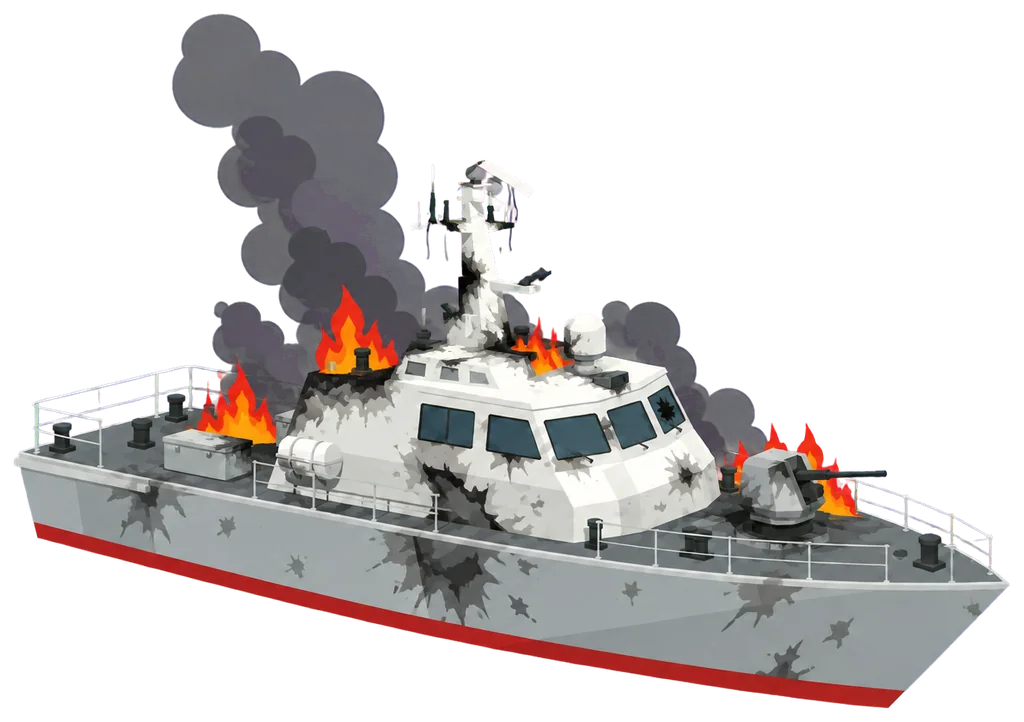
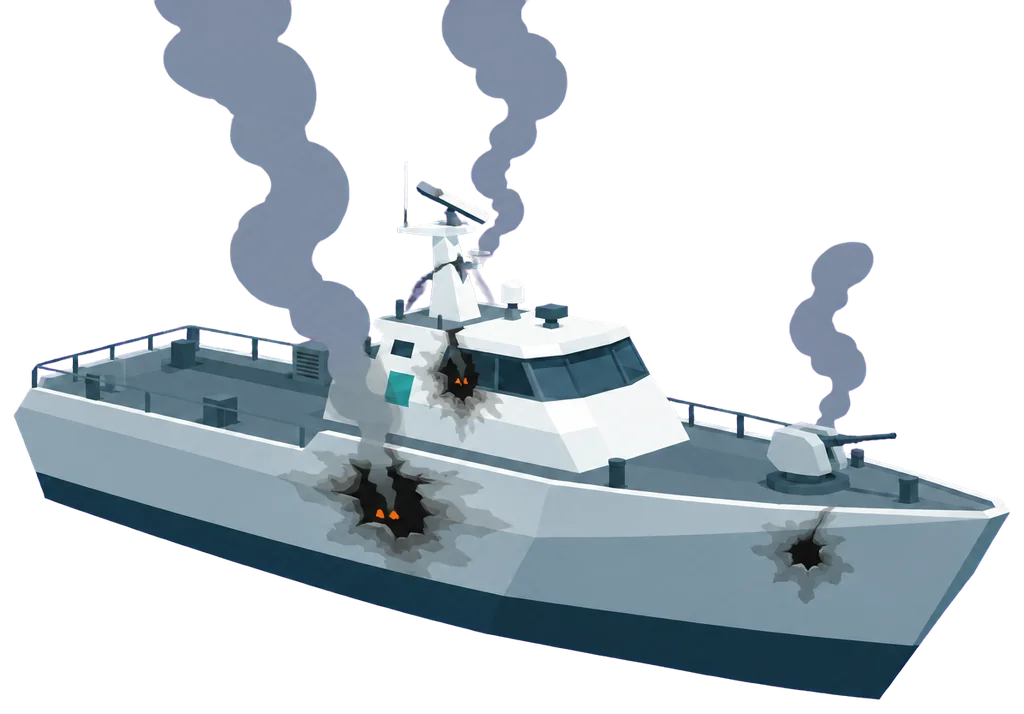
T18(2단계): 고른 그림체 A로 그림 에셋 전체를 새 색에 맞춰 다시 만듦 + 휴대폰 세로 시작 그림
- 배 3척(길이·모양을 크게 달리해 작게 줄여도 구별)과 불탄 배 3척(구멍·회색 연기, 큰 불꽃 없음), 바다 질감, 시작 화면, 결과 배경, 물보라를 v2 색(바다 #1B5F82, 흰 물결 #D8F2F5, 흘수선 남색 띠)으로 교체. 파일 이름은 그대로
- 새 그림 assets/img/title_phone.webp(1080×1920): 주 함정이 폭의 약 75%, 위는 제목 자리 하늘, 아래는 메뉴 자리 바다
- process_assets.py: 원본을 assets/raw/v2에서 읽음, title_phone 처리(빈 하늘만 세로로 늘려 9:16), 불탄 배 연기의 보랏빛 제거, 자홍 남음 점검 추가
- 프롬프트와 다시 만든 기록: assets/prompts.md v2 2단계(선택: A)

diff --git a/tools/process_assets.py b/tools/process_assets.py
@@ -1,14 +1,15 @@
 # -*- coding: utf-8 -*-
-"""assets/raw/*.png(Codex 생성 원본)를 게임용 webp로 만든다.
+"""assets/raw/v2/*.png(Codex 생성 원본, v2 디자인 개편)를 게임용 webp로 만든다.
 
     python tools/process_assets.py            # 모두 만들기
     python tools/process_assets.py --check    # 만든 파일의 크기·투명도·이음매 점검만
 
-- ship3 / ship2 / ship1 (+ _burnt) → 자홍(#FF00FF) 단색 배경을 지워 투명하게, 여백을 잘라 가로 1024 이하
+- ship3 / ship2 / ship1 (+ _burnt) → 자홍(#FF00FF) 단색 배경을 지워 투명하게(불탄 배는 연기의 보랏빛도 지움), 여백을 잘라 가로 1024 이하
 - splash → 4열×2행 견본을 칸별로 잘라 배경을 지우고, 256×256 칸 8개를 가로 한 줄(2048×256)로 잇는다
 - sea_tile → 이음매 없이 반복되도록 가장자리를 섞은 뒤 1024×1024
 - title / result_bg → 16:9로 자른 뒤 1920×1080
-원본은 assets/raw(저장소에 올리지 않음), 결과는 assets/img/<이름>.webp.
+- title_phone → 양옆을 조금만 자르고 빈 하늘을 세로로 늘려 9:16(1080×1920)으로(배가 잘리지 않게)
+원본은 assets/raw/v2(저장소에 올리지 않음), 결과는 assets/img/<이름>.webp.
 """
 import os
 import sys
@@ -17,7 +18,7 @@ from PIL import Image
 from scipy import ndimage
 
 ROOT = os.path.dirname(os.path.dirname(os.path.abspath(__file__)))
-RAW = os.path.join(ROOT, 'assets', 'raw')
+RAW = os.path.join(ROOT, 'assets', 'raw', 'v2')  # v1 원본은 assets/raw 바로 아래(프롬프트 기록: assets/prompts.md)
 OUT = os.path.join(ROOT, 'assets', 'img')
 
 SHIPS = ['ship3', 'ship2', 'ship1', 'ship3_burnt', 'ship2_burnt', 'ship1_burnt']
@@ -80,12 +81,26 @@ def fit_width(im, w):
     return im.resize((w, round(im.height * w / im.width)), Image.LANCZOS)
 
 
+def smoke_tint(im):
+    """불탄 배의 연기에 남은 보랏빛(자홍 번짐, R·B가 모두 G보다 큼)을 푸른 회색으로 되돌린다.
+    배의 색(회색·흰색·쪽빛·청록·주황 불씨)은 R·B가 함께 G를 넘지 않아 건드리지 않는다."""
+    a = np.array(im).astype(np.float32)
+    r, g, b = a[..., 0], a[..., 1], a[..., 2]
+    purple = (r > g) & (b > g)
+    a[..., 0] = np.where(purple, g, r)
+    a[..., 2] = np.where(purple, g + 0.35 * (b - g), b)
+    return Image.fromarray(np.clip(a, 0, 255).astype(np.uint8), 'RGBA')
+
+
 def ships():
     for n in SHIPS:
         if not os.path.exists(os.path.join(RAW, n + '.png')):
             print('  (없음)', n)
             continue
-        save_webp(fit_width(trim(key_out(raw(n))), 1024), n, 84)
+        im = key_out(raw(n))
+        if n.endswith('_burnt'):
+            im = smoke_tint(im)
+        save_webp(fit_width(trim(im), 1024), n, 84)
 
 
 def water_tint(im):
@@ -196,25 +211,51 @@ def sea_tile():
     print(f'  sea_tile.webp {fixed.size[0]}x{fixed.size[1]} RGB {os.path.getsize(path) // 1024}KB (무손실)')
 
 
-# ---------- 16:9 배경 ----------
+# ---------- 16:9 배경 / 9:16 세로 시작 그림 ----------
 
-def wide(name):
+def wide(name, aw=16, ah=9, size=(1920, 1080)):
+    """가운데를 aw:ah 비율로 잘라 size로 맞춘다(기본 16:9 → 1920×1080)."""
     im = raw(name)
     tw = im.width
-    th = round(tw * 9 / 16)
+    th = round(tw * ah / aw)
     if th > im.height:
         th = im.height
-        tw = round(th * 16 / 9)
+        tw = round(th * aw / ah)
     l = (im.width - tw) // 2
     t = (im.height - th) // 2
-    im = im.crop((l, t, l + tw, t + th)).resize((1920, 1080), Image.LANCZOS)
+    im = im.crop((l, t, l + tw, t + th)).resize(size, Image.LANCZOS)
     save_webp(im, name, 82)
+
+
+def tall(name, size=(1080, 1920), side=24):
+    """세로 시작 그림: 원본(2:3)을 9:16으로 만들 때 양옆을 크게 자르면 배가 잘리므로,
+    양옆은 side 픽셀만 자르고 모자란 높이는 위쪽 빈 하늘(무늬 없는 단색 번짐)만 세로로 늘려 채운다."""
+    im = raw(name)
+    a = np.asarray(im, dtype=np.float32)
+    lum = a.mean(axis=2)
+    horizon = int(np.argmax(lum.mean(axis=1) < 170))           # 밝은 하늘 → 어두운 바다로 바뀌는 줄
+    dev = np.abs(lum[:horizon] - np.median(lum[:horizon], axis=1, keepdims=True))
+    busy = np.nonzero((dev > 25).sum(axis=1) > 2)[0]           # 하늘에 무엇(돛대 등)이 처음 나오는 줄
+    sky_end = max(8, (int(busy[0]) if len(busy) else horizon) - 20)
+    cw = im.width - 2 * side
+    ch = round(cw * size[1] / size[0])
+    extra = ch - im.height
+    if extra > 0:
+        sky = im.crop((0, 0, im.width, sky_end)).resize((im.width, sky_end + extra), Image.LANCZOS)
+        grown = Image.new('RGB', (im.width, ch))
+        grown.paste(sky, (0, 0))
+        grown.paste(im.crop((0, sky_end, im.width, im.height)), (0, sky_end + extra))
+        im = grown
+    t = (im.height - ch) // 2
+    print(f'  {name}: 수평선 {horizon}, 하늘 {sky_end}줄 → {sky_end + max(0, extra)}줄로 늘림, 양옆 {side}px 자름')
+    save_webp(im.crop((side, t, side + cw, t + ch)).resize(size, Image.LANCZOS), name, 82)
 
 
 # ---------- 점검 ----------
 
 EXPECT = {n: 'RGBA' for n in SHIPS + ['splash']}
-EXPECT.update({'sea_tile': 'RGB', 'title': 'RGB', 'result_bg': 'RGB'})
+EXPECT.update({'sea_tile': 'RGB', 'title': 'RGB', 'title_phone': 'RGB', 'result_bg': 'RGB'})
+SIZE = {'title': (1920, 1080), 'result_bg': (1920, 1080), 'title_phone': (1080, 1920)}
 
 
 def check():
@@ -235,6 +276,14 @@ def check():
             good = has_alpha and corners_clear and 0.03 < opaque < 0.95
             if n.startswith('ship'):
                 good = good and im.width <= 1024
+            # 자홍이 남은 곳(보이는 픽셀 중 R·B가 G보다 크게 높은 곳)이 거의 없어야 한다
+            if has_alpha:
+                a = np.asarray(im.convert('RGBA')).astype(np.int16)
+                vis = a[..., 3] > 128
+                mag = vis & (a[..., 0] - a[..., 1] > 60) & (a[..., 2] - a[..., 1] > 60)
+                left = mag.sum() / max(1, vis.sum())
+                msg += f' 자홍 남음 {left:.2%}'
+                good = good and left < 0.005
             if n == 'splash':
                 good = good and im.size == (SPLASH_FRAME * SPLASH_FRAMES, SPLASH_FRAME)
         elif n == 'sea_tile':
@@ -242,7 +291,7 @@ def check():
             msg += f' 이음매 순위 {sc:.2f}'
             good = im.size == (1024, 1024) and sc < 0.99
         else:
-            good = im.size == (1920, 1080)
+            good = im.size == SIZE[n]
         print(('PASS ' if good else 'FAIL ') + msg)
         ok = ok and good
     return ok
@@ -254,6 +303,6 @@ if __name__ == '__main__':
         print('배'); ships()
         print('물보라'); splash()
         print('바다 질감'); sea_tile()
-        print('배경'); wide('title'); wide('result_bg')
+        print('배경'); wide('title'); wide('result_bg'); tall('title_phone')
     print('점검')
     sys.exit(0 if check() else 1)

diff --git a/assets/prompts.md b/assets/prompts.md
@@ -200,5 +200,101 @@ A medium-size modern naval frigate: medium length hull, one deck gun on the bow,
 
 ### 선택
 
-- 선택: (선생님 선택 대기)
-- 고른 뒤(2단계) 할 일: 고른 화풍 문구로 배 3척 + 불탄 배 3척(불꽃 없이 그을림·부러진 돛대 정도, 끔찍하지 않게), 바다 질감, 시작 화면(가로) + 휴대폰 세로 시작 화면(주 함정이 폭의 70~85%, 제목·메뉴와 겹치지 않게), 결과 배경, 물보라를 다시 만든다.
+- 선택: A — 단정한 평면(선생님 선택)
+
+## v2 2단계: 에셋(견본 A 화풍)
+
+- 공통 화풍 문구: 견본 A의 3회차 문구에 `no glints`를 더했다. 공통으로 금지한 것: 글자·숫자·깃발·표장, 십자·더하기표·헬기 갑판 원·H 표시·헬기·사람 같은 기호, 빨강·주황·노랑·황금(황금은 화면의 명중 표시에만 씀; 불탄 배의 작은 불씨만 예외).
+- 함대 도색: 밝은 회색 선체, 흰 상부 구조물, 흘수선 짙은 남색 `#183540` 띠, 조금 더 어두운 갑판 `#5B6B73`, 청록 점 하나.
+- 배 세 척은 72px로 줄여도 구별되게 길이·모양을 크게 다르게 했다: ship3 선체 길이 폭의 8배(포 2문·계단형 상부·높은 돛대), ship2 5배(포 1문·가운데 네모 상부), ship1 3배(짧고 뭉툭, 선실이 뒤쪽).
+- 불탄 배는 같은 배 원본을 참조 그림(`-Image ... -RefMode same`)으로 붙여 같은 배·같은 각도로: 구멍, 그을음, 부러진 돛대, 회색 연기, 작은 주황 불씨 몇 개까지(큰 불꽃·폭발·사람 없음).
+- 원본은 `assets/raw/v2/<이름>.png`, 결과는 `assets/img/<이름>.webp`(이름은 v1과 같음, `title_phone`만 새로 생김). 처리·점검: `python tools/process_assets.py`(v2부터 원본을 `assets/raw/v2`에서 읽음).
+
+```powershell
+powershell -NoProfile -ExecutionPolicy Bypass -File tools\gen.ps1 -Name v2-ship3 -PromptFile tools\prompts\v2\ship3.txt -Out assets\raw\v2\ship3.png
+powershell -NoProfile -ExecutionPolicy Bypass -File tools\gen.ps1 -Name v2-ship3_burnt -PromptFile tools\prompts\v2\ship3_burnt.txt -Out assets\raw\v2\ship3_burnt.png -Image assets\raw\v2\ship3.png -RefMode same
+powershell -NoProfile -ExecutionPolicy Bypass -File tools\gen.ps1 -Name v2-title_phone -PromptFile tools\prompts\v2\title_phone.txt -Out assets\raw\v2\title_phone.png -Size 1024x1536
+powershell -NoProfile -ExecutionPolicy Bypass -File tools\gen.ps1 -Name v2-sea_tile -PromptFile tools\prompts\v2\sea_tile.txt -Out assets\raw\v2\sea_tile.png -Size 1024x1024
+python tools\process_assets.py        # webp 만들기 + 점검(PASS/FAIL)
+```
+
+| 이름 | 생성 크기 | 참조 그림 | 결과 |
+|---|---|---|---|
+| sea_tile | 1024x1024 | 없음 | 1024×1024, 이음매 제거, 무손실 |
+| ship3 / ship2 / ship1 | 1536x1024 | 없음 | 투명, 가로 1024 |
+| ship3_burnt / ship2_burnt / ship1_burnt | 1536x1024 | 같은 배 원본(same) | 투명, 가로 1024, 연기의 보랏빛(자홍 번짐)을 처리 단계에서 회색으로 |
+| title | 1536x1024 | 없음 | 16:9로 잘라 1920×1080 |
+| title_phone | 1024x1536 | 없음 | 1080×1920. 양옆 24px만 자르고 빈 하늘을 세로로 늘려 9:16(주 함정이 폭의 약 75%) |
+| result_bg | 1536x1024 | 없음 | 16:9로 잘라 1920×1080 |
+| splash | 1536x1024 | 없음 | 256×256 칸 8개 가로 한 줄(2048×256), 투명 |
+
+### 다시 만든 기록(2단계)
+
+- title_phone: 1회차는 배가 원본 폭의 약 90%라 9:16으로 자르면 뱃머리·고물이 잘렸다(`assets/raw/v2/try1/title_phone.png`). 2회차에 "앞쪽 3/4 각도, 폭의 55%만"으로 바꿔 배가 원본 폭의 약 73%가 됐고, 처리 단계에서 양옆을 크게 자르지 않고 빈 하늘만 세로로 늘려 9:16을 맞췄다.
+- 나머지는 1회차에 통과. 불탄 배 2척(ship2·ship1)의 연기에 남은 보랏빛은 다시 만들지 않고 `process_assets.py`의 `smoke_tint`로 지웠다.
+
+### v2 sea_tile — 바다 질감 (`tools/prompts/v2/sea_tile.txt`)
+
+```text
+A seamless tileable texture of open sea seen straight from directly above (top-down, orthographic): a flat deep blue #1B5F82 water surface with small stylized pale #D8F2F5 and slightly lighter blue wave crest marks, each a simple short curved stroke, scattered sparsely and evenly across the whole square with the same size everywhere, subtle and calm, no larger shapes, no focal point, no ship, no island, no horizon, no sky, no vignette, no lighting change from one side to the other. Designed to repeat edge to edge as a background pattern. Style: flat vector illustration made of simple clean geometric shapes, solid color fills, crisp edges, minimal detail, modern editorial infographic look, refined with exactly one flat darker shade tone on the side of each surface facing away from a sun at the upper left and one thin flat highlight line along top edges, careful even spacing and tidy consistent detail, like a high-end airline or government infographic poster. Completely flat and drawn by hand in vector: no 3D rendering, no realistic lighting, no photographic water, no sparkles, no glints. No red, no orange, no yellow, no gold. Absolutely no text, no letters, no numbers, no hull numbers, no flags, no emblems, no insignia, no logos, no signatures, no watermarks, no frame or border. No symbols or deck markings of any kind: no crosses, no plus signs, no helipad circles or H marks, no helicopters, no aircraft, no people. Modern ships only: not historical, no traditional Korean or Joseon ships, no sails, no oars. Square 1024x1024.
+```
+
+### v2 ship3 — 큰 배 (`tools/prompts/v2/ship3.txt`)
+
+```text
+A large modern naval destroyer, the biggest ship of the fleet: a very long, sleek hull about eight times as long as it is wide, two deck guns (one on the bow, one behind the bridge), rows of flat vertical missile launcher hatches, a tall stepped superstructure with a tall pyramid radar mast, and a long flat empty stern deck. Fleet livery shared by every ship: light cool grey steel hull, white angular superstructure, a dark ink-navy #183540 boot stripe along the waterline, a slightly darker slate grey #5B6B73 deck, dark grey deck fittings, white radar mast, one tiny teal #096C6A accent. Shown in three-quarter view from slightly above, bow pointing to the right, the whole ship fully visible and centered with a wide empty margin on every side. The ship must read as a strong, clean, instantly recognizable silhouette even when shrunk to 72 pixels wide: high contrast between the dark deck, the white superstructure and the grey hull, no fussy tiny details. Style: flat vector illustration made of simple clean geometric shapes, solid color fills, crisp edges, minimal detail, modern editorial infographic look, refined with exactly one flat darker shade tone on the side of each surface facing away from a sun at the upper left and one thin flat highlight line along top edges, careful even spacing and tidy consistent detail, like a high-end airline or government infographic poster. Completely flat and drawn by hand in vector: no 3D rendering, no realistic lighting, no photographic water, no sparkles, no glints. Palette: sea #1B5F82 with deeper #183540 in shadows, white wave foam #D8F2F5, pale sky #F2F6F6 and white #FFFFFF, ink #183540, a tiny teal #096C6A accent. No red, no orange, no yellow, no gold anywhere. The ship is isolated on a perfectly flat, uniform, solid pure magenta #FF00FF background: no water, no sea, no waves, no wake, no shadow on the ground, no gradient, nothing else in the picture. Do not use magenta or pink anywhere on the ship. Absolutely no text, no letters, no numbers, no hull numbers, no flags, no emblems, no insignia, no logos, no signatures, no watermarks, no frame or border. No symbols or deck markings of any kind: no crosses, no plus signs, no helipad circles or H marks, no helicopters, no aircraft, no people. Modern ships only: not historical, no traditional Korean or Joseon ships, no sails, no oars. Landscape 1536x1024.
+```
+
+### v2 ship2 — 중간 배 (`tools/prompts/v2/ship2.txt`)
+
+```text
+A medium-size modern naval frigate: a medium length hull about five times as long as it is wide, one deck gun on the bow, one compact angular superstructure block in the middle with a single radar mast, a short flat stern deck. Clearly smaller and simpler than a destroyer: no missile launchers, only one gun. Fleet livery shared by every ship: light cool grey steel hull, white angular superstructure, a dark ink-navy #183540 boot stripe along the waterline, a slightly darker slate grey #5B6B73 deck, dark grey deck fittings, white radar mast, one tiny teal #096C6A accent. Shown in three-quarter view from slightly above, bow pointing to the right, the whole ship fully visible and centered with a wide empty margin on every side. The ship must read as a strong, clean, instantly recognizable silhouette even when shrunk to 72 pixels wide: high contrast between the dark deck, the white superstructure and the grey hull, no fussy tiny details. Style: flat vector illustration made of simple clean geometric shapes, solid color fills, crisp edges, minimal detail, modern editorial infographic look, refined with exactly one flat darker shade tone on the side of each surface facing away from a sun at the upper left and one thin flat highlight line along top edges, careful even spacing and tidy consistent detail, like a high-end airline or government infographic poster. Completely flat and drawn by hand in vector: no 3D rendering, no realistic lighting, no photographic water, no sparkles, no glints. Palette: sea #1B5F82 with deeper #183540 in shadows, white wave foam #D8F2F5, pale sky #F2F6F6 and white #FFFFFF, ink #183540, a tiny teal #096C6A accent. No red, no orange, no yellow, no gold anywhere. The ship is isolated on a perfectly flat, uniform, solid pure magenta #FF00FF background: no water, no sea, no waves, no wake, no shadow on the ground, no gradient, nothing else in the picture. Do not use magenta or pink anywhere on the ship. Absolutely no text, no letters, no numbers, no hull numbers, no flags, no emblems, no insignia, no logos, no signatures, no watermarks, no frame or border. No symbols or deck markings of any kind: no crosses, no plus signs, no helipad circles or H marks, no helicopters, no aircraft, no people. Modern ships only: not historical, no traditional Korean or Joseon ships, no sails, no oars. Landscape 1536x1024.
+```
+
+### v2 ship1 — 작은 배 (`tools/prompts/v2/ship1.txt`)
+
+```text
+A small modern fast patrol boat, the smallest ship of the fleet: a short, stubby, wide hull only about three times as long as it is wide, with a high pointed bow, one small low wheelhouse cabin set toward the back, one short radar mast, and one tiny gun on the bow. It must look like a small fast boat, not a frigate: no large superstructure, no missile launchers. Fleet livery shared by every ship: light cool grey steel hull, white angular superstructure, a dark ink-navy #183540 boot stripe along the waterline, a slightly darker slate grey #5B6B73 deck, dark grey deck fittings, white radar mast, one tiny teal #096C6A accent. Shown in three-quarter view from slightly above, bow pointing to the right, the whole ship fully visible and centered with a wide empty margin on every side. The ship must read as a strong, clean, instantly recognizable silhouette even when shrunk to 72 pixels wide: high contrast between the dark deck, the white superstructure and the grey hull, no fussy tiny details. Style: flat vector illustration made of simple clean geometric shapes, solid color fills, crisp edges, minimal detail, modern editorial infographic look, refined with exactly one flat darker shade tone on the side of each surface facing away from a sun at the upper left and one thin flat highlight line along top edges, careful even spacing and tidy consistent detail, like a high-end airline or government infographic poster. Completely flat and drawn by hand in vector: no 3D rendering, no realistic lighting, no photographic water, no sparkles, no glints. Palette: sea #1B5F82 with deeper #183540 in shadows, white wave foam #D8F2F5, pale sky #F2F6F6 and white #FFFFFF, ink #183540, a tiny teal #096C6A accent. No red, no orange, no yellow, no gold anywhere. The ship is isolated on a perfectly flat, uniform, solid pure magenta #FF00FF background: no water, no sea, no waves, no wake, no shadow on the ground, no gradient, nothing else in the picture. Do not use magenta or pink anywhere on the ship. Absolutely no text, no letters, no numbers, no hull numbers, no flags, no emblems, no insignia, no logos, no signatures, no watermarks, no frame or border. No symbols or deck markings of any kind: no crosses, no plus signs, no helipad circles or H marks, no helicopters, no aircraft, no people. Modern ships only: not historical, no traditional Korean or Joseon ships, no sails, no oars. Landscape 1536x1024.
+```
+
+### v2 ship3_burnt — 큰 배(불탄) (`tools/prompts/v2/ship3_burnt.txt`)
+
+```text
+Draw exactly the same ship as in the reference image, same hull shape, same proportions, same colors, same angle, same size and same position in the frame, but damaged after being hit: a few dark jagged holes in the hull side and superstructure, blackened scorch patches around them, the radar mast bent and broken, and two or three soft columns of flat grey smoke shapes rising from the holes that stay inside the picture. At most two or three tiny restrained orange embers inside the holes; no big flames, no fire, no explosions, no people, nothing gory. The ship is still afloat, level and recognizable. Fleet livery shared by every ship: light cool grey steel hull, white angular superstructure, a dark ink-navy #183540 boot stripe along the waterline, a slightly darker slate grey #5B6B73 deck, dark grey deck fittings, white radar mast, one tiny teal #096C6A accent. Shown in three-quarter view from slightly above, bow pointing to the right, the whole ship fully visible and centered with a wide empty margin on every side. Style: flat vector illustration made of simple clean geometric shapes, solid color fills, crisp edges, minimal detail, modern editorial infographic look, refined with exactly one flat darker shade tone on the side of each surface facing away from a sun at the upper left and one thin flat highlight line along top edges, careful even spacing and tidy consistent detail, like a high-end airline or government infographic poster. Completely flat and drawn by hand in vector: no 3D rendering, no realistic lighting, no photographic water, no sparkles, no glints. The ship is isolated on a perfectly flat, uniform, solid pure magenta #FF00FF background: no water, no sea, no waves, no wake, no shadow on the ground, no gradient, nothing else in the picture. Do not use magenta or pink anywhere on the ship. Absolutely no text, no letters, no numbers, no hull numbers, no flags, no emblems, no insignia, no logos, no signatures, no watermarks, no frame or border. No symbols or deck markings of any kind: no crosses, no plus signs, no helipad circles or H marks, no helicopters, no aircraft, no people. Modern ships only: not historical, no traditional Korean or Joseon ships, no sails, no oars. Landscape 1536x1024.
+```
+
+### v2 ship2_burnt — 중간 배(불탄) (`tools/prompts/v2/ship2_burnt.txt`)
+
+```text
+Draw exactly the same ship as in the reference image, same hull shape, same proportions, same colors, same angle, same size and same position in the frame, but damaged after being hit: a few dark jagged holes in the hull side and superstructure, blackened scorch patches around them, the radar mast bent and broken, and two or three soft columns of flat grey smoke shapes rising from the holes that stay inside the picture. At most two or three tiny restrained orange embers inside the holes; no big flames, no fire, no explosions, no people, nothing gory. The ship is still afloat, level and recognizable. Fleet livery shared by every ship: light cool grey steel hull, white angular superstructure, a dark ink-navy #183540 boot stripe along the waterline, a slightly darker slate grey #5B6B73 deck, dark grey deck fittings, white radar mast, one tiny teal #096C6A accent. Shown in three-quarter view from slightly above, bow pointing to the right, the whole ship fully visible and centered with a wide empty margin on every side. Style: flat vector illustration made of simple clean geometric shapes, solid color fills, crisp edges, minimal detail, modern editorial infographic look, refined with exactly one flat darker shade tone on the side of each surface facing away from a sun at the upper left and one thin flat highlight line along top edges, careful even spacing and tidy consistent detail, like a high-end airline or government infographic poster. Completely flat and drawn by hand in vector: no 3D rendering, no realistic lighting, no photographic water, no sparkles, no glints. The ship is isolated on a perfectly flat, uniform, solid pure magenta #FF00FF background: no water, no sea, no waves, no wake, no shadow on the ground, no gradient, nothing else in the picture. Do not use magenta or pink anywhere on the ship. Absolutely no text, no letters, no numbers, no hull numbers, no flags, no emblems, no insignia, no logos, no signatures, no watermarks, no frame or border. No symbols or deck markings of any kind: no crosses, no plus signs, no helipad circles or H marks, no helicopters, no aircraft, no people. Modern ships only: not historical, no traditional Korean or Joseon ships, no sails, no oars. Landscape 1536x1024.
+```
+
+### v2 ship1_burnt — 작은 배(불탄) (`tools/prompts/v2/ship1_burnt.txt`)
+
+```text
+Draw exactly the same ship as in the reference image, same hull shape, same proportions, same colors, same angle, same size and same position in the frame, but damaged after being hit: a few dark jagged holes in the hull side and superstructure, blackened scorch patches around them, the radar mast bent and broken, and two or three soft columns of flat grey smoke shapes rising from the holes that stay inside the picture. At most two or three tiny restrained orange embers inside the holes; no big flames, no fire, no explosions, no people, nothing gory. The ship is still afloat, level and recognizable. Fleet livery shared by every ship: light cool grey steel hull, white angular superstructure, a dark ink-navy #183540 boot stripe along the waterline, a slightly darker slate grey #5B6B73 deck, dark grey deck fittings, white radar mast, one tiny teal #096C6A accent. Shown in three-quarter view from slightly above, bow pointing to the right, the whole ship fully visible and centered with a wide empty margin on every side. Style: flat vector illustration made of simple clean geometric shapes, solid color fills, crisp edges, minimal detail, modern editorial infographic look, refined with exactly one flat darker shade tone on the side of each surface facing away from a sun at the upper left and one thin flat highlight line along top edges, careful even spacing and tidy consistent detail, like a high-end airline or government infographic poster. Completely flat and drawn by hand in vector: no 3D rendering, no realistic lighting, no photographic water, no sparkles, no glints. The ship is isolated on a perfectly flat, uniform, solid pure magenta #FF00FF background: no water, no sea, no waves, no wake, no shadow on the ground, no gradient, nothing else in the picture. Do not use magenta or pink anywhere on the ship. Absolutely no text, no letters, no numbers, no hull numbers, no flags, no emblems, no insignia, no logos, no signatures, no watermarks, no frame or border. No symbols or deck markings of any kind: no crosses, no plus signs, no helipad circles or H marks, no helicopters, no aircraft, no people. Modern ships only: not historical, no traditional Korean or Joseon ships, no sails, no oars. Landscape 1536x1024.
+```
+
+### v2 title — 시작 화면(가로) (`tools/prompts/v2/title.txt`)
+
+```text
+Wide start-screen illustration for a school learning game set on a bright clear day at sea. A small fleet of three modern naval warships of clearly different sizes sailing together toward the right on a calm deep blue sea: a large destroyer (the longest, two deck guns, flat missile launcher hatches, a tall radar mast, a long flat empty stern deck), a medium frigate (about two thirds of the destroyer length, one bow gun, compact superstructure, one radar mast) and a small fast patrol boat (about one third of the destroyer length, a small wheelhouse, a tiny bow gun). The destroyer is right of center and slightly nearer, the frigate behind it to the left, the patrol boat further left; all three ships sit in the middle horizontal band of the picture, between about 42 and 75 percent of the image height, each with a thin white wake. Keep all three ships inside the central 90 percent of the width. Fleet livery shared by every ship: light cool grey steel hull, white angular superstructure, a dark ink-navy #183540 boot stripe along the waterline, a slightly darker slate grey #5B6B73 deck, dark grey deck fittings, white radar mast, one tiny teal #096C6A accent. Composition: the top 40 percent is a clean open pale sky #F2F6F6 fading to very light blue at a low straight horizon, completely empty, no birds, no clouds, calm enough for a large dark title to be placed over it later; the bottom 25 percent is quiet open sea with only sparse small wave marks so that a white menu panel can sit there. Palette: sea #1B5F82 with deeper #183540 in shadows, white wave foam #D8F2F5, pale sky #F2F6F6 and white #FFFFFF, ink #183540, a tiny teal #096C6A accent. No red, no orange, no yellow, no gold anywhere. No flames, no smoke, no explosions, no gunfire. Style: flat vector illustration made of simple clean geometric shapes, solid color fills, crisp edges, minimal detail, modern editorial infographic look, refined with exactly one flat darker shade tone on the side of each surface facing away from a sun at the upper left and one thin flat highlight line along top edges, careful even spacing and tidy consistent detail, like a high-end airline or government infographic poster. Completely flat and drawn by hand in vector: no 3D rendering, no realistic lighting, no photographic water, no sparkles, no glints. The sea is flat deep blue #1B5F82 with stylized white and pale #D8F2F5 wave crests drawn as simple repeated curves, and the wakes are simple flat white vector foam shapes. Absolutely no text, no letters, no numbers, no hull numbers, no flags, no emblems, no insignia, no logos, no signatures, no watermarks, no frame or border. No symbols or deck markings of any kind: no crosses, no plus signs, no helipad circles or H marks, no helicopters, no aircraft, no people. Modern ships only: not historical, no traditional Korean or Joseon ships, no sails, no oars. Landscape 1536x1024.
+```
+
+### v2 title_phone — 시작 화면(휴대폰 세로) (`tools/prompts/v2/title_phone.txt`)
+
+```text
+Tall portrait phone start-screen illustration for a school learning game set on a bright clear day at sea. One single large modern naval destroyer (two deck guns, flat missile launcher hatches, a tall radar mast, a long flat empty stern deck) sailing toward the right on a calm deep blue sea, seen from a front three-quarter angle from slightly above, the bow pointing toward the lower right and toward the viewer so the ship looks compact and short across the picture, with a thin white wake. The destroyer is centered horizontally and is fairly small in the frame: the whole ship, from the tip of the bow to the end of the stern, spans only about 55 percent of the picture width, with wide empty sea on both its left and right sides; the bow and the stern must both stay far away from the picture edges. No other ships. Fleet livery shared by every ship: light cool grey steel hull, white angular superstructure, a dark ink-navy #183540 boot stripe along the waterline, a slightly darker slate grey #5B6B73 deck, dark grey deck fittings, white radar mast, one tiny teal #096C6A accent. Composition: the ship sits in the middle band of the picture, between about 38 and 62 percent of the image height. The top 35 percent is a clean open pale sky #F2F6F6 fading to very light blue at a low straight horizon, completely empty, no birds, no clouds, for a large dark title placed over it later; the bottom 35 percent is quiet open sea with only sparse small wave marks so that a white menu panel can sit there. Palette: sea #1B5F82 with deeper #183540 in shadows, white wave foam #D8F2F5, pale sky #F2F6F6 and white #FFFFFF, ink #183540, a tiny teal #096C6A accent. No red, no orange, no yellow, no gold anywhere. No flames, no smoke, no explosions, no gunfire. Style: flat vector illustration made of simple clean geometric shapes, solid color fills, crisp edges, minimal detail, modern editorial infographic look, refined with exactly one flat darker shade tone on the side of each surface facing away from a sun at the upper left and one thin flat highlight line along top edges, careful even spacing and tidy consistent detail, like a high-end airline or government infographic poster. Completely flat and drawn by hand in vector: no 3D rendering, no realistic lighting, no photographic water, no sparkles, no glints. The sea is flat deep blue #1B5F82 with stylized white and pale #D8F2F5 wave crests drawn as simple repeated curves, and the wakes are simple flat white vector foam shapes. Absolutely no text, no letters, no numbers, no hull numbers, no flags, no emblems, no insignia, no logos, no signatures, no watermarks, no frame or border. No symbols or deck markings of any kind: no crosses, no plus signs, no helipad circles or H marks, no helicopters, no aircraft, no people. Modern ships only: not historical, no traditional Korean or Joseon ships, no sails, no oars. Portrait 1024x1536.
+```
+
+### v2 result_bg — 결과 배경 (`tools/prompts/v2/result_bg.txt`)
+
+```text
+A calm, very light, low-contrast background illustration for a results screen: a pale #F2F6F6 surface with very faint, soft, pale #D8F2F5 and very light blue stylized wave lines drifting across the lower part, and a barely visible calm horizon of gentle water. Everything is light and quiet with low contrast so that dark text and charts placed on top stay easy to read. No ships, no objects, no focal point, no dark areas. Style: flat vector illustration made of simple clean geometric shapes, solid color fills, crisp edges, minimal detail, modern editorial infographic look, refined with exactly one flat darker shade tone on the side of each surface facing away from a sun at the upper left and one thin flat highlight line along top edges, careful even spacing and tidy consistent detail, like a high-end airline or government infographic poster. Completely flat and drawn by hand in vector: no 3D rendering, no realistic lighting, no photographic water, no sparkles, no glints. No red, no orange, no yellow, no gold. Absolutely no text, no letters, no numbers, no hull numbers, no flags, no emblems, no insignia, no logos, no signatures, no watermarks, no frame or border. No symbols or deck markings of any kind: no crosses, no plus signs, no helipad circles or H marks, no helicopters, no aircraft, no people. Modern ships only: not historical, no traditional Korean or Joseon ships, no sails, no oars. Landscape 1536x1024.
+```
+
+### v2 splash — 물보라 (`tools/prompts/v2/splash.txt`)
+
+```text
+A sprite sheet of an animated water splash in 8 frames, arranged in a grid of 4 columns and 2 rows, read left to right, top row first. Each frame sits centered in its own equal cell with wide empty space between frames, and no frame touches another. The animation: frame 1 a small droplet impact, frames 2 to 4 a white and pale teal #D8F2F5 water splash column growing upward with flying droplets, frames 5 to 7 the splash collapsing and spreading into a ring of foam, frame 8 a few fading foam dots. All frames share the same scale and the same baseline. Water shapes are only white, pale teal #D8F2F5 and light teal #9ED3D6 flat shapes with crisp edges; no dark blue, no dark outlines, no ink lines. Style: flat vector illustration made of simple clean geometric shapes, solid color fills, crisp edges, minimal detail, modern editorial infographic look, refined with exactly one flat darker shade tone on the side of each surface facing away from a sun at the upper left and one thin flat highlight line along top edges, careful even spacing and tidy consistent detail, like a high-end airline or government infographic poster. Completely flat and drawn by hand in vector: no 3D rendering, no realistic lighting, no photographic water, no sparkles, no glints. Plain background: perfectly flat, uniform, solid pure magenta #FF00FF everywhere, no grid lines, no cell borders, no shadows. Do not use magenta or pink in the water. Absolutely no text, no letters, no numbers, no hull numbers, no flags, no emblems, no insignia, no logos, no signatures, no watermarks, no frame or border. No symbols or deck markings of any kind: no crosses, no plus signs, no helipad circles or H marks, no helicopters, no aircraft, no people. Modern ships only: not historical, no traditional Korean or Joseon ships, no sails, no oars. Landscape 1536x1024.
+```
